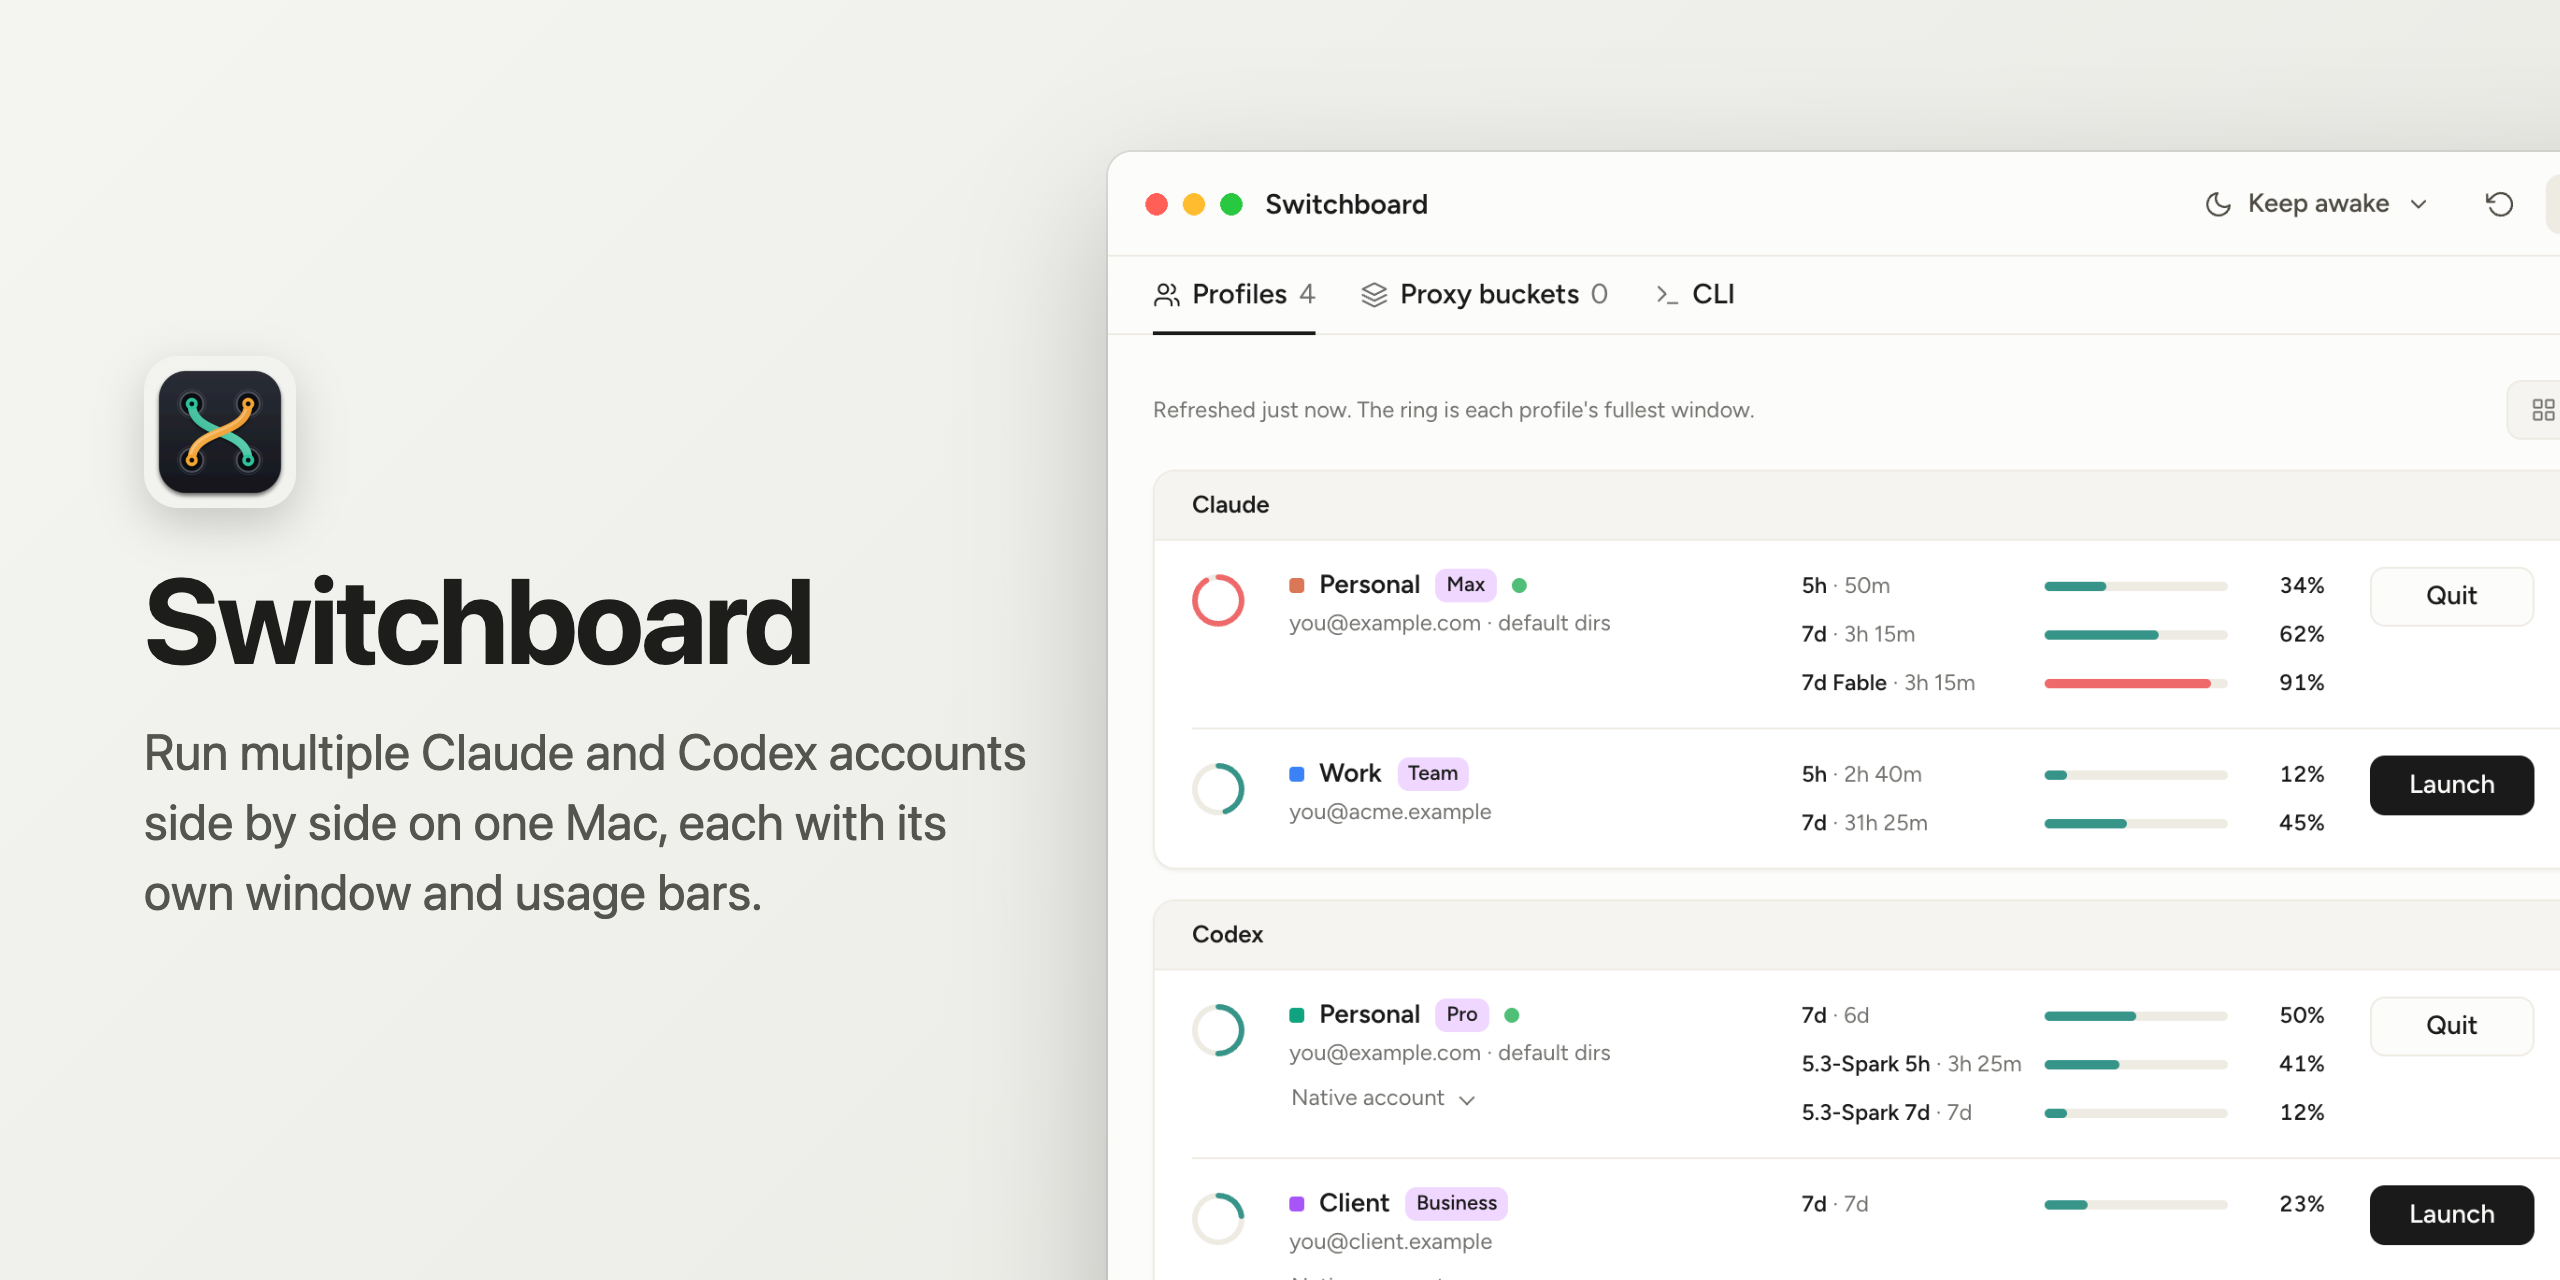
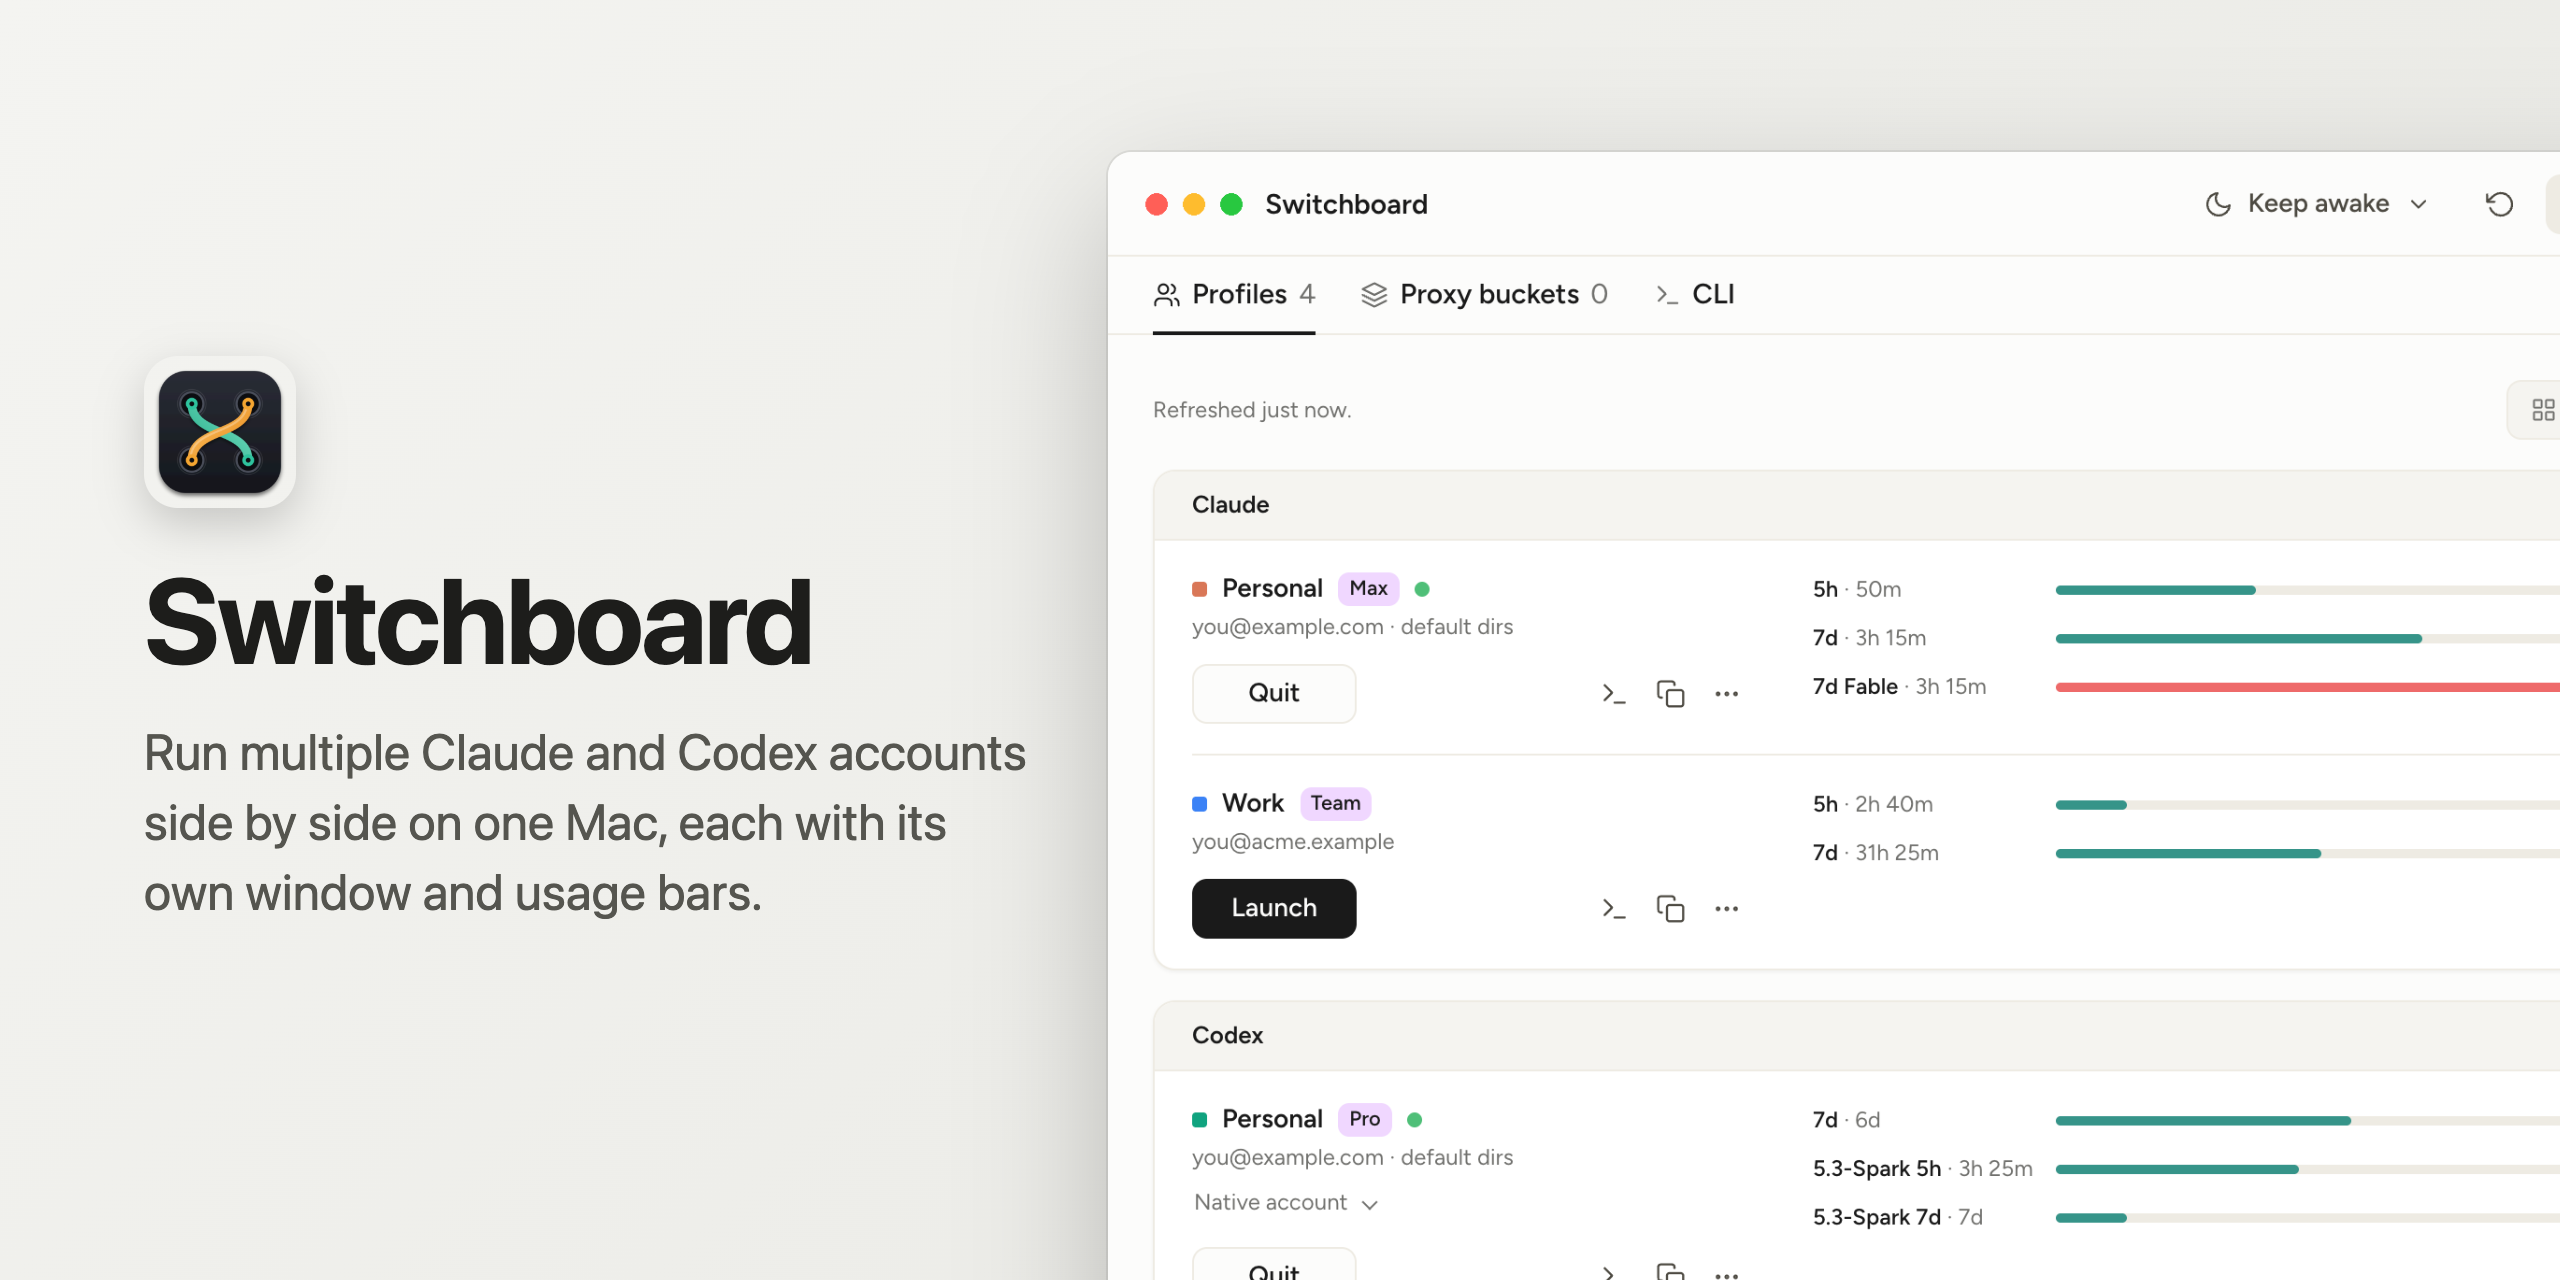
List rows: profile and its actions left, usage right; no rings
The list row is two columns: the profile's identity with its Launch or
Quit button and tools beneath, and its usage bars beside. The fullest-
window ring is gone; the bars already say it. Narrow windows stack the
three parts. In the buckets tab, Stop and Disable are outlined buttons
rather than ghost text, with Stop tinted as the destructive action.

diff --git a/src/renderer/style.css b/src/renderer/style.css
@@ -119,6 +119,8 @@ button.secondary { background: var(--secondary); border-color: var(--secondary);
 button.secondary:hover { filter: brightness(0.96); }
 button.quiet, button.ghost { background: transparent; border-color: transparent; color: var(--text-2); }
 button.quiet:hover, button.ghost:hover { background: var(--hover); color: var(--text); }
+button.danger { color: var(--bad-text); }
+button.danger:hover { background: var(--danger-bg); }
 button:disabled { opacity: 0.5; cursor: default; pointer-events: none; }
 button:focus-visible, select:focus-visible, input:focus-visible, a:focus-visible { outline: 2px solid var(--text); outline-offset: 2px; }
 .ico { width: 16px; height: 16px; display: inline-block; flex: none; }
@@ -183,18 +185,14 @@ main { padding: 24px 24px 32px; display: grid; gap: 16px; align-content: start; 
 .panel-body { padding: 0 20px; }
 .panel-body > .empty { margin: 14px 0; }
 
-/* Five fixed columns, so the rings, names, bars and buttons line up down the
-   whole list. Rows are top-aligned: the ring, the name, the first bar and the
-   button share one baseline, and a row with more windows grows downward. */
+/* Two columns: the profile and its actions on the left, its usage on the
+   right, so names, bars and buttons line up down the whole list. */
 .card {
-  display: grid; grid-template-columns: 28px minmax(200px, 250px) minmax(280px, 1fr) auto auto;
-  grid-template-areas: 'ring who bars actions tools';
-  gap: 0 24px; align-items: start; padding: 14px 0;
+  display: grid; grid-template-columns: minmax(220px, 300px) minmax(280px, 1fr);
+  grid-template-areas: 'who bars' 'foot bars';
+  gap: 12px 32px; align-items: start; padding: 16px 0;
 }
 .card + .card { border-top: 1px solid var(--line); }
-.card .ring { grid-area: ring; padding-top: 4px; }
-.card .ring svg { display: block; width: 28px; height: 28px; transform: rotate(-90deg); }
-.card .ring .empty-ring { display: block; width: 28px; height: 28px; border-radius: 50%; border: 3px solid var(--track); }
 .card .who { grid-area: who; min-width: 0; display: flex; flex-direction: column; gap: 2px; }
 .card .head { display: flex; align-items: center; gap: 8px; min-width: 0; }
 .card .head .color { width: 8px; height: 8px; padding: 0; border: 0; border-radius: 2px; background: var(--card-color, var(--muted)); flex: none; cursor: pointer; }
@@ -212,9 +210,10 @@ main { padding: 24px 24px 32px; display: grid; gap: 16px; align-content: start; 
 .ident.err { color: var(--warn-text); }
 .ident a { color: var(--text); font-weight: 550; text-decoration: none; border-bottom: 1px solid var(--muted); }
 .card .bars { grid-area: bars; min-width: 0; display: grid; gap: 6px; align-content: start; }
-.card .actions { grid-area: actions; display: flex; justify-content: flex-end; }
+.card .foot { grid-area: foot; display: flex; align-items: center; gap: 8px; }
+.card .actions { display: flex; }
 .card .actions button { min-width: 88px; }
-.card .tools { grid-area: tools; display: flex; gap: 2px; justify-content: flex-end; }
+.card .tools { display: flex; gap: 2px; margin-left: auto; }
 .card .tools .icon-btn { width: 28px; height: 28px; border-color: transparent; background: transparent; }
 .card .tools .icon-btn:hover { background: var(--hover); }
 .ico-check { display: none; color: var(--run-text); }
@@ -255,19 +254,17 @@ main { padding: 24px 24px 32px; display: grid; gap: 16px; align-content: start; 
 .bars .note { padding-top: 2px; }
 .bars .note.warn { color: var(--warn-text); }
 
-/* Narrow windows: identity and button on the first line, bars under them. */
+/* Narrow windows: one column, usage under the profile. */
 @container (max-width: 720px) {
   .card {
-    grid-template-columns: 28px minmax(0, 1fr) auto auto;
-    grid-template-areas: 'ring who actions tools' 'ring bars bars bars';
-    gap: 10px 12px;
+    grid-template-columns: minmax(0, 1fr);
+    grid-template-areas: 'who' 'bars' 'foot';
+    gap: 12px;
   }
-  .card .who { grid-column: who; }
   .card .actions button { min-width: 0; }
-  .card .tools .icon-btn.copy-btn { display: none; }
 }
 @container (max-width: 480px) {
-  .card .tools .icon-btn:not(.more-btn) { display: none; }
+  .card .tools .icon-btn.copy-btn { display: none; }
 }
 
 /* --- Buckets tab: a card per bucket, then one line per account --- */
@@ -290,7 +287,7 @@ main { padding: 24px 24px 32px; display: grid; gap: 16px; align-content: start; 
 .acct .who { min-width: 0; overflow: hidden; text-overflow: ellipsis; white-space: nowrap; font-size: 13px; }
 .acct .prov { color: var(--muted); }
 .acct-windows { display: grid; gap: 6px; min-width: 0; }
-.acct > button { height: 28px; margin-top: -4px; }
+.acct > button { height: 28px; margin-top: -4px; font-size: 13px; }
 @media (max-width: 700px) {
   .acct { grid-template-columns: 1fr auto; }
   .acct-windows { grid-column: 1 / -1; grid-row: 2; }
@@ -381,9 +378,6 @@ legend { color: var(--muted); font-size: 12px; padding: 0 6px; }
 .track.skel { height: 5px; width: 100%; }
 @keyframes shimmer { from { background-position: 200% 0; } to { background-position: -200% 0; } }
 @media (prefers-reduced-motion: reduce) { .skel { animation: none; } }
-.ring-fill { stroke: var(--fill); }
-.ring-fill.warn { stroke: var(--warn); }
-.ring-fill.bad { stroke: var(--bad); }
 
 /* --- the toolbar above the accounts: refresh line, then Cards or List --- */
 .toolbar { display: flex; align-items: center; justify-content: space-between; gap: 12px; min-height: 32px; }
@@ -399,7 +393,7 @@ legend { color: var(--muted); font-size: 12px; padding: 0 6px; }
 .card.tile { display: flex; flex-direction: column; align-items: stretch; gap: 14px; padding: 20px; border: 1px solid var(--line); border-radius: 12px; background: var(--panel); box-shadow: var(--shadow-1); min-width: 0; }
 .card.tile + .card.tile { border-top: 1px solid var(--line); }
 .card.tile .bars { flex-grow: 1; }
-.card.tile .foot { display: flex; align-items: center; justify-content: space-between; gap: 8px; padding-top: 4px; }
+.card.tile .foot { justify-content: space-between; padding-top: 4px; }
 .card.tile .actions button { min-width: 0; }
 .card.tile .tools .icon-btn { width: 32px; height: 32px; border-color: var(--line); background: var(--btn-bg); }
 .card.tile .tools .icon-btn:hover { background: var(--hover); }

diff --git a/src/renderer/profiles.tsx b/src/renderer/profiles.tsx
@@ -8,7 +8,6 @@ import {
   act,
   ago,
   clock,
-  fullest,
   relShort,
   relTime,
   severityClass,
@@ -21,7 +20,7 @@ import {
   type UsageWindow,
   type ProfilesView,
 } from './lib';
-import { Badge, Bar, Btn, Dot, Icon, Note, Ring, Seg, Skeleton, TipBtn } from './ui/primitives';
+import { Badge, Bar, Btn, Dot, Icon, Note, Seg, Skeleton, TipBtn } from './ui/primitives';
 import { useOverlays, useTip, type MenuItem } from './ui/overlays';
 import { useActions } from './ui/actions';
 
@@ -95,7 +94,7 @@ export function Profiles({
   return (
     <>
       <div class="toolbar">
-        <span class="note">{refreshed}. The ring is each profile's fullest window.</span>
+        <span class="note">{refreshed}.</span>
         <Seg
           label="Show profiles as"
           value={view}
@@ -162,8 +161,6 @@ function Profile({
   class: string;
   dnd: Dnd;
 }) {
-  const w = p.proxyBucket ? null : fullest(p.usage?.windows);
-  const ringTip = useTip(w ? [`${w.label} · ${w.pct}% used`, relTime(w.resetsAt)].filter(Boolean) : null);
   if (view === 'cards') {
     return (
       <div class={`card tile ${cls}`} style={{ '--card-color': p.color }} {...dnd}>
@@ -178,13 +175,12 @@ function Profile({
   }
   return (
     <div class={`card ${cls}`} style={{ '--card-color': p.color }} {...dnd}>
-      <div class="ring" tabIndex={w ? 0 : -1} {...ringTip}>
-        <Ring w={w} />
-      </div>
       <IdentityBlock p={p} state={state} />
       <UsageBlock p={p} state={state} />
-      <ActionButton p={p} state={state} />
-      <Tools p={p} state={state} />
+      <div class="foot">
+        <ActionButton p={p} state={state} />
+        <Tools p={p} state={state} />
+      </div>
     </div>
   );
 }

diff --git a/src/renderer/buckets.tsx b/src/renderer/buckets.tsx
@@ -68,7 +68,8 @@ function BucketPanel({ bucket, state }: { bucket: BucketView; state: State }) {
           )}
           {bucket.status === 'stopped' ? null : (
             <Btn
-              variant="ghost"
+              variant="outline"
+              class="danger"
               onClick={(e) =>
                 act(async () => {
                   if (confirm(`Stop ${bucket.name}? This interrupts model requests from every app using this bucket.`))
@@ -119,7 +120,7 @@ function AccountRow({
         ))}
       </div>
       <Btn
-        variant="ghost"
+        variant="outline"
         onClick={(e) => act(() => window.sb.setBucketAccount(bucket.id, account.name, off), e.currentTarget)}
       >
         {off ? 'Enable' : 'Disable'}
